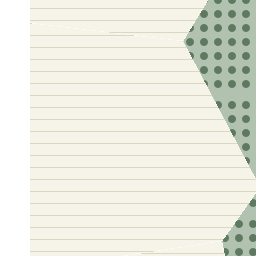
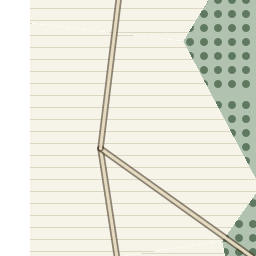
T0: resolve Meuse Corridor XML drift and sync docs to genxml source of truth
The hand-edited map/ XML had drifted from genxml.py, and README/validate_map
described a stale state. Promote the three hand-edits into genxml.py so the
generator reproduces the in-use map/ XML byte-for-byte, then realign every
generated artifact and doc to that single source of truth.

genxml.py (source of truth):
- mechanized attack 2 -> 1 (matches in-use map/)
- add mechanized->armour UnitSupportAttachment (offence, strength, bonus 1,
  number 1, bonusType mechanizedArmour, players Germans) reproducing the
  in-use attachment exactly
- add ('Libramont','Neufchateau') to ROADS (was hand-added to map/ XML but
  absent from ROADS); drop it from the "deliberately absent" comment, leaving
  Vielsalm-Durbuy and Hotton-Marche as the two supply-only cuts

Regeneration and sync:
- .generated/map/games XML regenerated; map/ and .generated/ XML are now
  byte-identical
- map/reliefTiles/3_3.png redrawn so the Libramont-Neufchateau road appears on
  the tile (the XML declared it but the committed tile was stale). The tile
  pipeline reproduces 27/28 relief tiles byte-for-byte here, and this tile
  differs only by the added road
- .generated/map tiles were a stale snapshot; mirrored from map/ so every
  shared generated file is byte-identical to map/
- name_place.txt intentionally NOT regenerated: its x-offsets are measured in
  Arial Bold, absent in this environment, so regeneration would inject
  font-dependent noise (y-offsets are identical, only x drifts)
[…]

Changed region(s): [[0.375, 0.0, 1.0, 1.0]]

diff --git a/maps/small_front_meuse/tools/genxml.py b/maps/small_front_meuse/tools/genxml.py
@@ -29,9 +29,9 @@ DROP = {
 SUPPLY_SOURCES = ['Blankenheim', 'Prum', 'Bitburg', 'Echternach',
                   'Huy', 'Andenne', 'Namur', 'Dinant', 'Givet']
 
-# Main roads only. Three former cross-links are deliberately absent:
-# Vielsalm-Durbuy, Hotton-Marche and Libramont-Neufchateau. Movement remains possible across those
-# borders. La Roche-Marche preserves a second central supply axis without restoring a direct bypass.
+# Main roads only. Two former cross-links are deliberately absent:
+# Vielsalm-Durbuy and Hotton-Marche. Movement remains possible across those borders.
+# La Roche-Marche preserves a second central supply axis without restoring a direct bypass.
 ROADS = [
     ('Prum', 'Blankenheim'), ('Prum', 'Bitburg'), ('Bitburg', 'Echternach'),
     ('Blankenheim', 'Losheim Gap'), ('Prum', 'Clervaux'), ('Bitburg', 'Vianden'),
@@ -42,7 +42,7 @@ ROADS = [
     ('Bastogne', 'Saint-Hubert'), ('Martelange', 'Libramont'),
     ('Vielsalm', 'Erezee'), ('Erezee', 'La Roche'), ('La Roche', 'Hotton'),
     ('La Roche', 'Marche'), ('Hotton', 'Nassogne'), ('Nassogne', 'Neufchateau'),
-    ('Saint-Hubert', 'Libramont'),
+    ('Saint-Hubert', 'Libramont'), ('Libramont', 'Neufchateau'),
     ('Marche', 'Ciney'), ('Marche', 'Rochefort'),
     ('Neufchateau', 'Beauraing'), ('Neufchateau', 'Bertrix'),
     ('Durbuy', 'Havelange'), ('Ciney', 'Havelange'), ('Rochefort', 'Ciney'),
@@ -286,12 +286,22 @@ STATIC_ATTACHMENTS = '''    <attachment name="relationshipTypeAttachment" attach
       <option name="movement" value="2"/>
       <option name="combatMovement" value="2"/>
       <option name="redeploymentMovement" value="3"/>
-      <option name="attack" value="2"/>
+      <option name="attack" value="1"/>
       <option name="defense" value="2"/>
       <option name="isInfantry" value="true"/>
       <option name="artillerySupportable" value="true"/>
       <option name="stackCost" value="1"/>
       <option name="tuv" value="4"/>
+    </attachment>
+    <attachment name="supportAttachmentMechanizedArmour" attachTo="mechanized" javaClass="games.strategy.triplea.attachments.UnitSupportAttachment" type="unitType">
+    <option name="unitType" value="armour"/>
+    <option name="faction" value="allied"/>
+    <option name="side" value="offence"/>
+    <option name="dice" value="strength"/>
+    <option name="bonus" value="1"/>
+    <option name="number" value="1"/>
+    <option name="bonusType" value="mechanizedArmour"/>
+    <option name="players" value="Germans"/>
     </attachment>
     <attachment name="unitAttachment" attachTo="fighter" javaClass="games.strategy.triplea.attachments.UnitAttachment" type="unitType">
       <option name="movement" value="4"/>

diff --git a/maps/small_front_meuse/tools/validate_map.py b/maps/small_front_meuse/tools/validate_map.py
@@ -51,13 +51,13 @@ for attachment in game_root.findall("./attachmentList/attachment"):
                 assert target in territories
                 roads.add(tuple(sorted((source, target))))
 
-assert len(roads) == 44, len(roads)
+assert len(roads) == 45, len(roads)
 assert roads <= movement_edges, roads - movement_edges
 assert tuple(sorted(("La Roche", "Marche"))) in roads
+assert tuple(sorted(("Libramont", "Neufchateau"))) in roads
 for removed in {
     tuple(sorted(("Vielsalm", "Durbuy"))),
     tuple(sorted(("Hotton", "Marche"))),
-    tuple(sorted(("Libramont", "Neufchateau"))),
 }:
     assert removed not in roads, removed
 
@@ -137,7 +137,7 @@ properties = {
     prop.attrib["name"]: prop.attrib["value"] for prop in game_root.findall("./propertyList/property")
 }
 for name, expected in {
-    "Air Control Persistent": "true",
+    "Air Control Persistent": "false",
     "Scramble Rules In Effect": "true",
     "Scrambled Units Return To Base": "true",
     "Scramble To Sea Only": "false",
@@ -160,5 +160,5 @@ for step in redeployment_steps:
 
 print(
     f"OK: {len(territories)} territories, {len(connections)} movement edges, "
-    f"{len(roads)} roads, native radius-2 scramble, persistent air control, armour 2x@2 TUV 7"
+    f"{len(roads)} roads, native radius-2 scramble, non-persistent air control, armour 2x@2 TUV 7"
 )

diff --git a/maps/small_front_meuse/README.md b/maps/small_front_meuse/README.md
@@ -51,8 +51,11 @@ The Voronoi adjacency is not used as-is. Five candidate edges are dropped:
 
 ### Supply road cuts
 
-Roads are a strict subset of movement edges: 44 of 67. The borders Vielsalm-Durbuy, Hotton-Marche
-and Libramont-Neufchateau remain legal movement edges, but no longer carry supply. La Roche-Marche
+Roads are a strict subset of movement edges: 45 of 67, leaving 22 borders that units may cross but
+that carry no supply. Most of those 22 are the natural consequence of the road network being a
+curated spine rather than every adjacency; two of them are deliberate supply-only cuts:
+Vielsalm-Durbuy and Hotton-Marche remain legal movement edges but do not carry supply, so a pocket
+can be isolated across those borders even while the front can still be crossed. La Roche-Marche
 provides an indirect second route across the central plateau, so losing Hotton, Nassogne or
 Neufchateau alone cannot divide the entire road network. A spearhead can still manoeuvre off-road,
 and coordinated control of several road hubs can isolate a meaningful pocket without making one
@@ -63,9 +66,9 @@ central territory an automatic half-map cutoff.
 Fighters use TripleA's native airbase and scramble system rather than a scenario-specific interceptor
 search. Prum, Bitburg, Ciney and Namur each contain a two-aircraft airfield; fighters may scramble up
 to two movement edges into a pending battle and return to their originating base after combat. This
-lets aircraft remain behind the front while still contesting nearby battles. Air control persists
-until a later battle changes it, and surviving numerical superiority establishes control while equal
-survivors leave it contested.
+lets aircraft remain behind the front while still contesting nearby battles. Air control is not
+persistent: it is contested afresh in each battle rather than carrying over, so surviving numerical
+superiority establishes control for that battle while equal survivors leave it contested.
 
 Armour rolls two attack dice at attack 2, retains one defense die at defense 3, costs two stack
 capacity, and has TUV 7. The change concentrates its value in offensive shock without increasing its
@@ -90,10 +93,7 @@ Set `Auto Termination` to false to play past round 8 with the rubric still talli
 ## Balance is unvalidated
 
 The reinforcement schedule and the starting order of battle are first guesses. They have not been
-played. The Pro AI cannot test them: this map, like its predecessor, has no economy, so
-`TuvCostsCalculator` returns an empty cost map, every unit is worth 0 to the AI, no attack ever
-scores as profitable, and the AI stands still for eight rounds. An all-AI game therefore always
-reports Americans 8, Germans 0 and proves only that the map runs.
+validated by play.
 
 ## Installation
 

diff --git a/maps/small_front_meuse/tools/README.md b/maps/small_front_meuse/tools/README.md
@@ -22,10 +22,10 @@ renderer and the game rules: a road only appears on the map if the XML declares 
 
 `genxml.py` drops the edges in its `DROP` set to create the forest wall and the river crossings, and
 asserts every declared road is a real movement edge, so a typo in `ROADS` fails the build rather than
-silently orphaning supply. The three supply-only cuts are declared by omitting Vielsalm-Durbuy,
-Hotton-Marche and Libramont-Neufchateau from `ROADS`; those borders remain movement edges.
-La Roche-Marche remains a supply road, giving the central plateau an indirect second axis without
-restoring the removed Hotton-Marche shortcut.
+silently orphaning supply. The two supply-only cuts are declared by omitting Vielsalm-Durbuy and
+Hotton-Marche from `ROADS`; those borders remain movement edges. La Roche-Marche remains a supply
+road, giving the central plateau an indirect second axis without restoring the removed Hotton-Marche
+shortcut.
 
 `UnitGen` writes 48x48 transparent PNG counters for both players. Every counter uses a rectangular
 unit frame and a battalion `II` echelon marker. Armour uses a horizontal oval, mechanized infantry
